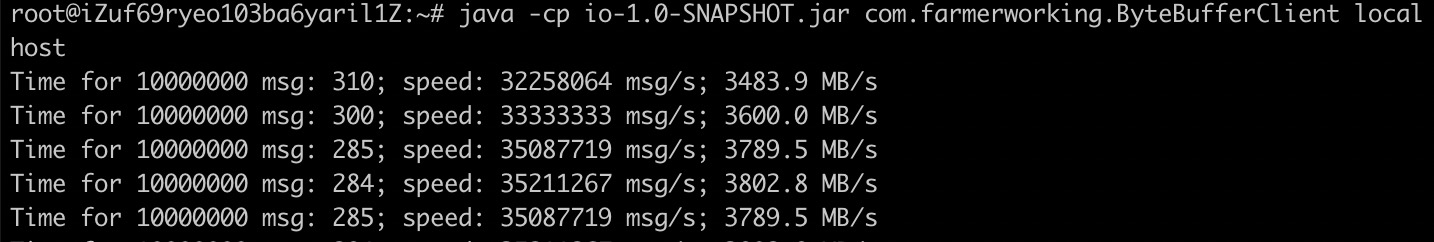
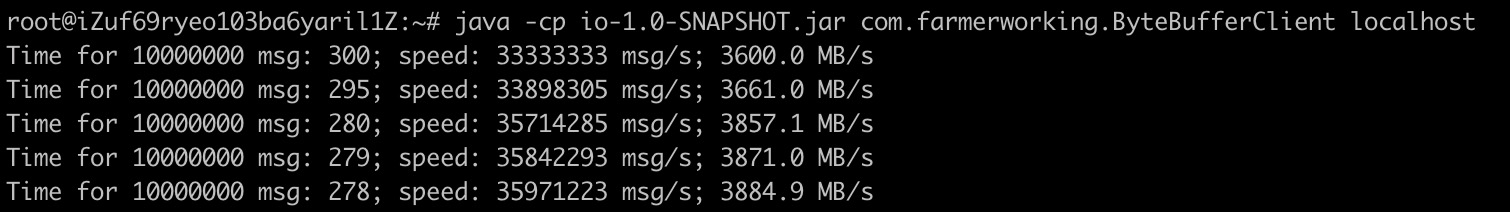
新增 bytebuffer 大小的用例

diff --git a/src/main/java/com/farmerworking/ByteBufferClient4.java b/src/main/java/com/farmerworking/ByteBufferClient4.java
@@ -7,18 +7,19 @@ import java.nio.ByteBuffer;
 import java.nio.channels.ByteChannel;
 import java.nio.channels.SocketChannel;
 
-public class ByteBufferClient2 {
-    private static ByteBuffer buf = ByteBuffer.allocateDirect (1024*512);
+public class ByteBufferClient4 {
+    private static ByteBuffer buf;
 
     public static void main (String [] args) throws Exception
     {
+        buf = ByteBuffer.allocateDirect (128 * Integer.valueOf(args[1]));
         String hostName = args [0];
         final SocketAddress socketAddr = new InetSocketAddress(hostName, 22222);
         SocketChannel chan = SocketChannel.open ();
         chan.connect (socketAddr);
 
         byte[] type = new byte [4];
-        byte[] msg = new byte [1024];
+        ByteBuffer msgBuf = buf.duplicate();
         buf.limit (0);
 
         while (true) {
@@ -31,8 +32,10 @@ public class ByteBufferClient2 {
                 ensure (4, chan);
                 int len = buf.getInt ();
                 ensure (len, chan);
-                buf.get (msg, 0, len);
-                processMessage (type, msg, len);
+                msgBuf.limit (buf.position () + len);
+                msgBuf.position (buf.position ());
+                buf.position (buf.position () + len);
+                processMessage (type, msgBuf, len);
                 sum += len + 8;
             }
             long t1 = System.currentTimeMillis ();
@@ -42,7 +45,7 @@ public class ByteBufferClient2 {
         }
     }
 
-    private static void processMessage(byte[] type, byte[] msg, int len) {
+    private static void processMessage(byte[] type, ByteBuffer msg, int len) {
     }
 
     private static void ensure (int len, ByteChannel chan) throws IOException

diff --git a/src/main/java/com/farmerworking/ByteBufferClient.java b/src/main/java/com/farmerworking/ByteBufferClient.java
@@ -47,17 +47,15 @@ public class ByteBufferClient {
 
     private static void ensure (int len, ByteChannel chan) throws IOException
     {
-        if (buf.position() > buf.capacity () - len) {
+        if (buf.remaining () < len) {
             buf.compact ();
             buf.flip ();
-        }
-        while (buf.remaining () < len) {
-            int oldpos = buf.position ();
-            buf.position (buf.limit ());
-            buf.limit (buf.capacity ());
-            chan.read (buf);
-            buf.limit (buf.position ());
-            buf.position (oldpos);
+            do {
+                buf.position (buf.limit ());
+                buf.limit (buf.capacity ());
+                chan.read (buf);
+                buf.flip ();
+            } while (buf.remaining () < len);
         }
     }
 }

diff --git a/src/main/java/com/farmerworking/README.md b/src/main/java/com/farmerworking/README.md
@@ -8,9 +8,7 @@
 
 ## Buffer vs Stream
 1. 利用 Java NIO 中的 channel 和 byteBuffer —— ByteBufferClient
+2. byteBuffer 大小合适影响最终性能 —— ByteBufferClient4
 
 ## 内存拷贝
 1. 使用 ByteBuffer.duplicate 创建一份引用而不是拷贝 —— ByteBufferClient3
-
-
-ByteBufferClient2 ???
